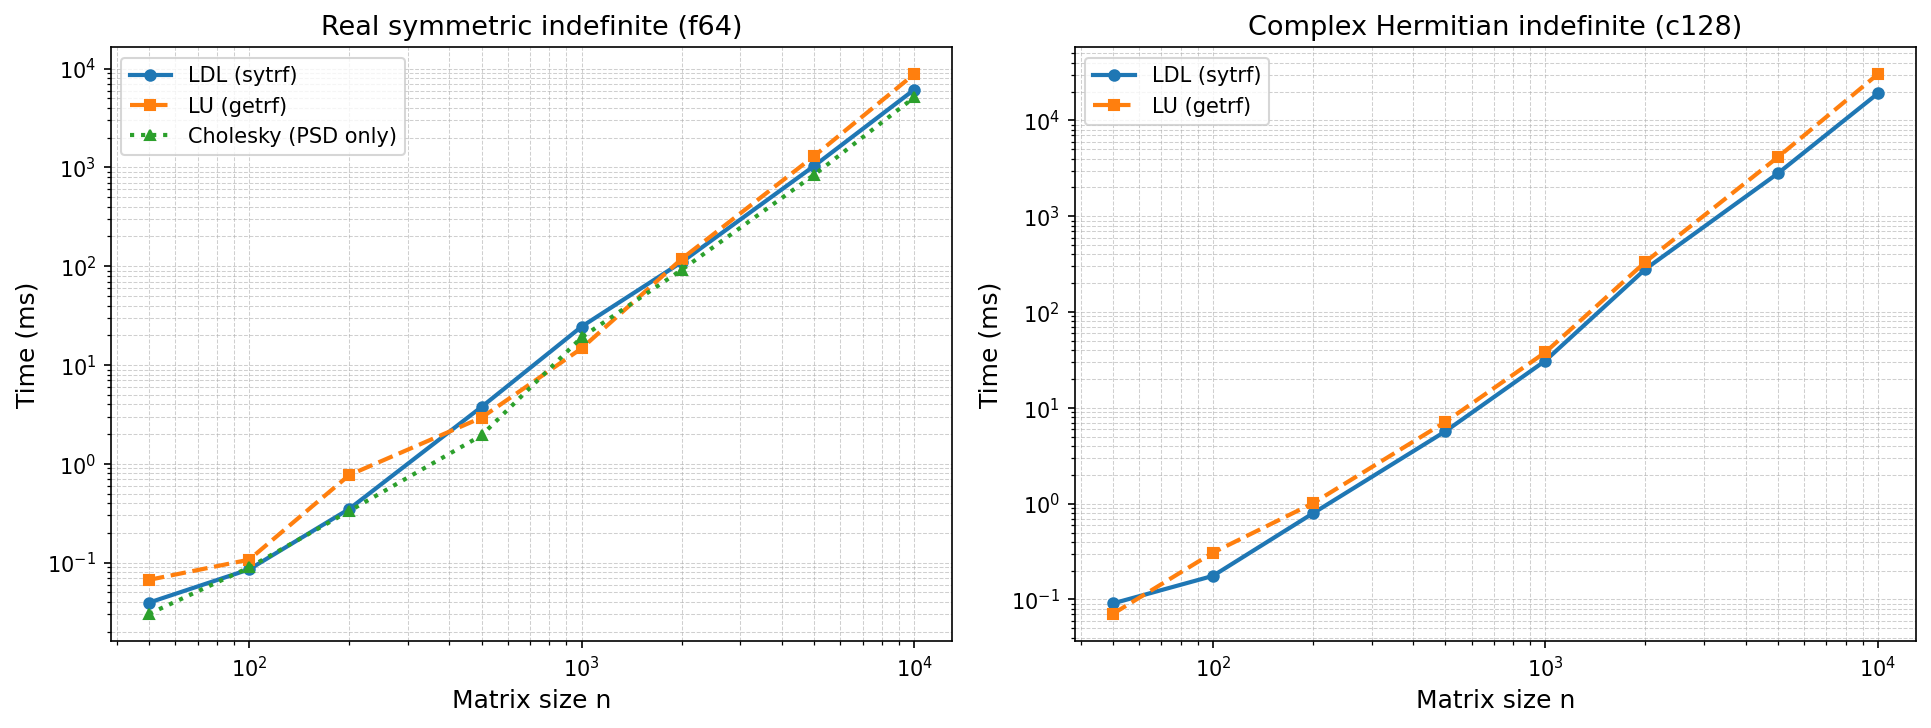
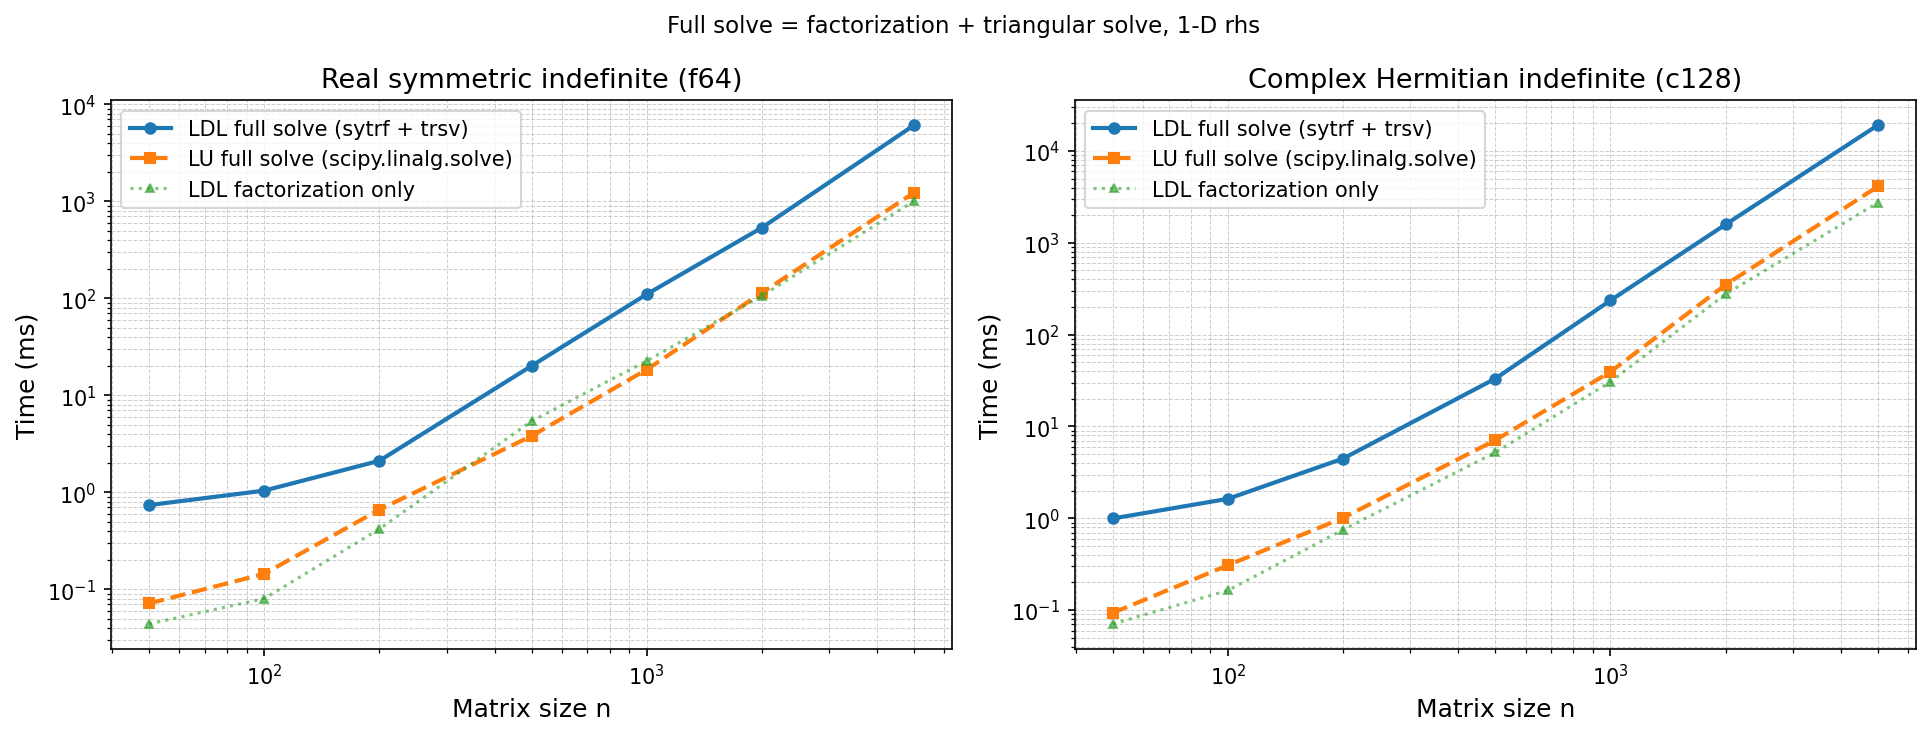
benchmarks: time full solve (factorization+solve), max N=5000
- Switch bench_ldl.py to measure end-to-end solve (factorization +
  triangular solve) for a single 1-D rhs vector, up to n=5000
- Add JIT-compiled _lu_solve_real/cplx using jax.scipy.linalg.solve
- Add _ldl_full_sym/herm wrappers combining JIT factorization + ldl_solve
- Update CSV columns: ldl_factoriz_ms, ldl_solve_ms, lu_solve_ms
- Update plot to show all three series (factoriz-only, LDL full, LU full)
- Update docs/benchmarks_ldl.md to reflect new comparison and note
  that D is stored as (n, n) block-diagonal (not 1-D)

Changed region(s): [[0.0, 0.0, 0.9943, 0.9973]]

diff --git a/benchmarks/bench_ldl.py b/benchmarks/bench_ldl.py
@@ -1,13 +1,23 @@
-"""Benchmark: LDL vs LU vs Cholesky for symmetric/Hermitian systems.
+"""Benchmark: LDL vs LU full solve (factorization + triangular solve).
 
-Compares wall-clock time for:
+Measures wall-clock time for the FULL SOLVE (factorization + triangular solve)
+of a single 1-D right-hand side vector, comparing:
+
   - LDL (sytrf) via jaxtra  — for symmetric/Hermitian indefinite matrices
-  - LU  (getrf) via jax.lax.linalg.lu  — always applicable
-  - Cholesky via jax.lax.linalg.cholesky  — only for PSD matrices
+  - LU  (getrf) via jax.scipy.linalg.solve  — always applicable
 
-Matrix sizes: 50 to 10 000.  Two series:
+LDL factorization is JIT-compiled.  The LDL triangular solve is performed in
+NumPy (ldl_solve is not yet JIT-traceable), while jax.scipy.linalg.solve is
+fully JIT-compiled, so timings are not perfectly apples-to-apples; the total
+wall time still reflects end-to-end solve cost for a caller.
+
+Matrix sizes: 50 to 5000.  Two series:
   1. Real symmetric indefinite (f64)
   2. Complex Hermitian indefinite (c128)
+
+Note on D storage: jaxtra returns D as a full (n, n) block-diagonal matrix,
+NOT a 1-D array.  Bunch-Kaufman pivoting can produce 2×2 blocks in D, so a
+1-D representation is insufficient.
 
 Results are written to benchmarks/results/bench_ldl.csv and companion PNGs.
 
@@ -25,16 +35,16 @@ import matplotlib.pyplot as plt
 import numpy as np
 import jax
 import jax.numpy as jnp
-from jax._src.lax.linalg import lu as jax_lu, cholesky as jax_cholesky
+from jax._src.lax.linalg import lu as jax_lu
 
 jax.config.update("jax_enable_x64", True)
 
-from jaxtra._src.lax.linalg import ldl as ldl_primitive
+from jaxtra._src.lax.linalg import ldl as ldl_primitive, ldl_solve
 
 RESULTS_DIR = Path(__file__).parent / "results"
 RESULTS_DIR.mkdir(exist_ok=True)
 
-SIZES = [50, 100, 200, 500, 1000, 2000, 5000, 10000]
+SIZES = [50, 100, 200, 500, 1000, 2000, 5000]
 N_WARMUP = 1
 N_REPEAT = 5
 RNG = np.random.default_rng(42)
@@ -58,14 +68,37 @@ def _ldl_herm(a):
 
 @jax.jit
 def _lu(a):
-  """LU factorisation."""
+  """LU factorisation (factorization only, for reference)."""
   return jax_lu(a)
 
 
 @jax.jit
-def _cholesky(a):
-  """Cholesky factorisation (PSD only)."""
-  return jax_cholesky(a)
+def _lu_solve_real(a, b):
+  """LU full solve — real."""
+  return jax.scipy.linalg.solve(a, b)
+
+
+@jax.jit
+def _lu_solve_cplx(a, b):
+  """LU full solve — complex."""
+  return jax.scipy.linalg.solve(a, b)
+
+
+# ---------------------------------------------------------------------------
+# LDL full solve wrappers (JIT factorization + NumPy triangular solve)
+# ---------------------------------------------------------------------------
+
+
+def _ldl_full_sym(a, b):
+  """LDL full solve — real symmetric (factorization + solve)."""
+  factors, ipiv = _ldl_sym(a)
+  return ldl_solve(factors, ipiv, b, lower=True, hermitian=False)
+
+
+def _ldl_full_herm(a, b):
+  """LDL full solve — complex Hermitian (factorization + solve)."""
+  factors, ipiv = _ldl_herm(a)
+  return ldl_solve(factors, ipiv, b, lower=True, hermitian=True)
 
 
 # ---------------------------------------------------------------------------
@@ -111,12 +144,6 @@ def _herm_indef(n: int, dtype) -> jax.Array:
   return jnp.array(a)
 
 
-def _sym_psd(n: int, dtype) -> jax.Array:
-  """Real symmetric positive-definite matrix (for Cholesky baseline)."""
-  a = RNG.standard_normal((n, n)).astype(dtype)
-  return jnp.array(a @ a.T + n * np.eye(n, dtype=dtype))
-
-
 # ---------------------------------------------------------------------------
 # Benchmark runners
 # ---------------------------------------------------------------------------
@@ -126,41 +153,35 @@ def _run_series(
   label: str,
   dtype,
   matrix_fn,
-  ldl_fn,
-  hermitian: bool,
+  ldl_full_fn,
+  lu_solve_fn,
 ) -> list[dict]:
   rows = []
   print(
-    f"  {'n':>6}  {'LDL (ms)':>10}  {'LU (ms)':>10}  "
-    f"{'Cholesky (ms)':>14}  {'LDL vs LU':>10}"
+    f"  {'n':>6}  {'LDL factoriz (ms)':>18}  {'LDL full solve (ms)':>20}  "
+    f"{'LU full solve (ms)':>19}  {'LDL vs LU':>10}"
   )
-  print("  " + "-" * 58)
+  print("  " + "-" * 80)
   for n in SIZES:
     a = matrix_fn(n, dtype)
+    b = jnp.ones(n, dtype=dtype)
 
-    t_ldl = time_jax_fn(ldl_fn, a)
-    t_lu = time_jax_fn(_lu, a)
+    t_ldl_fact = time_jax_fn(_ldl_sym if "sym" in label else _ldl_herm, a)
+    t_ldl_full = time_jax_fn(ldl_full_fn, a, b)
+    t_lu_full = time_jax_fn(lu_solve_fn, a, b)
 
-    if not hermitian:
-      a_psd = _sym_psd(n, dtype)
-      t_chol = time_jax_fn(_cholesky, a_psd)
-      chol_str = f"{t_chol * 1e3:14.2f}"
-    else:
-      t_chol = float("nan")
-      chol_str = f"{'—':>14}"
-
-    speedup = t_lu / t_ldl if t_ldl > 0 else float("nan")
+    speedup = t_lu_full / t_ldl_full if t_ldl_full > 0 else float("nan")
     print(
-      f"  {n:>6d}  {t_ldl * 1e3:10.2f}  {t_lu * 1e3:10.2f}  "
-      f"{chol_str}  {speedup:9.2f}x"
+      f"  {n:>6d}  {t_ldl_fact * 1e3:18.2f}  {t_ldl_full * 1e3:20.2f}  "
+      f"{t_lu_full * 1e3:19.2f}  {speedup:9.2f}x"
     )
 
     rows.append({
       "series": label,
       "n": n,
-      "ldl_ms": t_ldl * 1e3,
-      "lu_ms": t_lu * 1e3,
-      "cholesky_ms": t_chol * 1e3,
+      "ldl_factoriz_ms": t_ldl_fact * 1e3,
+      "ldl_solve_ms": t_ldl_full * 1e3,
+      "lu_solve_ms": t_lu_full * 1e3,
       "ldl_vs_lu_speedup": speedup,
     })
   return rows
@@ -171,12 +192,20 @@ def main():
 
   print("=== Real symmetric indefinite (f64) ===")
   all_rows += _run_series(
-    "sym_f64", np.float64, _sym_indef, _ldl_sym, hermitian=False
+    "sym_f64",
+    np.float64,
+    _sym_indef,
+    _ldl_full_sym,
+    _lu_solve_real,
   )
 
   print("\n=== Complex Hermitian indefinite (c128) ===")
   all_rows += _run_series(
-    "herm_c128", np.complex128, _herm_indef, _ldl_herm, hermitian=True
+    "herm_c128",
+    np.complex128,
+    _herm_indef,
+    _ldl_full_herm,
+    _lu_solve_cplx,
   )
 
   # Write CSV.
@@ -184,9 +213,9 @@ def main():
   fieldnames = [
     "series",
     "n",
-    "ldl_ms",
-    "lu_ms",
-    "cholesky_ms",
+    "ldl_factoriz_ms",
+    "ldl_solve_ms",
+    "lu_solve_ms",
     "ldl_vs_lu_speedup",
   ]
   with open(csv_path, "w", newline="") as f:
@@ -212,31 +241,29 @@ def _plot(rows: list[dict]):
 
     ax.loglog(
       ns,
-      [r["ldl_ms"] for r in data],
+      [r["ldl_solve_ms"] for r in data],
       "o-",
-      label="LDL (sytrf)",
+      label="LDL full solve (sytrf + trsv)",
       linewidth=2,
       markersize=5,
     )
     ax.loglog(
       ns,
-      [r["lu_ms"] for r in data],
+      [r["lu_solve_ms"] for r in data],
       "s--",
-      label="LU (getrf)",
+      label="LU full solve (scipy.linalg.solve)",
       linewidth=2,
       markersize=5,
     )
-    if series == "sym_f64":
-      chol = [r["cholesky_ms"] for r in data]
-      if not all(np.isnan(chol)):
-        ax.loglog(
-          ns,
-          chol,
-          "^:",
-          label="Cholesky (PSD only)",
-          linewidth=2,
-          markersize=5,
-        )
+    ax.loglog(
+      ns,
+      [r["ldl_factoriz_ms"] for r in data],
+      "^:",
+      label="LDL factorization only",
+      linewidth=1.5,
+      markersize=4,
+      alpha=0.6,
+    )
 
     ax.set_xlabel("Matrix size n", fontsize=12)
     ax.set_ylabel("Time (ms)", fontsize=12)
@@ -244,6 +271,9 @@ def _plot(rows: list[dict]):
     ax.legend(fontsize=10)
     ax.grid(True, which="both", linestyle="--", linewidth=0.5, alpha=0.6)
 
+  fig.suptitle(
+    "Full solve = factorization + triangular solve, 1-D rhs", fontsize=11
+  )
   fig.tight_layout()
   png_path = RESULTS_DIR / "bench_ldl.png"
   fig.savefig(png_path, dpi=150, bbox_inches="tight")

diff --git a/docs/benchmarks_ldl.md b/docs/benchmarks_ldl.md
@@ -1,46 +1,45 @@
 # LDL Benchmarks
 
-Comparison of jaxtra's LDL (Bunch-Kaufman) factorisation against LU and Cholesky
-on square matrices (float64 and complex128, CPU):
+Comparison of jaxtra's LDL (Bunch-Kaufman) factorisation against LU for a
+full solve (factorization + triangular solve) of a single 1-D right-hand side,
+on square matrices (float64 and complex128, CPU, n = 50 – 5000):
 
-| Method        | Implementation                                                   |
-| ------------- | ---------------------------------------------------------------- |
-| **LDL**       | `jaxtra.scipy.linalg.ldl` — LAPACK `dsytrf` / `zhetrf`          |
-| **LU**        | `jax._src.lax.linalg.lu` — LAPACK `dgetrf`, always applicable   |
-| **Cholesky**  | `jax._src.lax.linalg.cholesky` — PSD matrices only (f64 series) |
+| Method            | Implementation                                                        |
+| ----------------- | --------------------------------------------------------------------- |
+| **LDL full solve**| `jaxtra._src.lax.linalg.ldl` (JIT) + `ldl_solve` (NumPy)            |
+| **LU full solve** | `jax.scipy.linalg.solve` — fully JIT-compiled LAPACK `dgetrf`/`dtrsv`|
 
-All timings use `jax.jit` + `jax.block_until_ready` with one warmup run
-followed by five timed repetitions; the reported value is the median.
+All timings use `jax.block_until_ready` with one warmup run followed by five
+timed repetitions; the reported value is the median.
 Raw results are in `benchmarks/results/bench_ldl.csv`.
+
+**Note on D storage**: D is returned as a full `(n, n)` block-diagonal matrix,
+not a 1-D array. Bunch-Kaufman pivoting can produce 2×2 off-diagonal blocks in
+D, so a 1-D diagonal representation is insufficient. This matches scipy's
+behavior.
 
 ## Results
 
 ```{figure} ../benchmarks/results/bench_ldl.png
-:alt: LDL vs LU vs Cholesky benchmark
+:alt: LDL vs LU full solve benchmark
 :width: 95%
 :align: center
 ```
 
 ## Summary
 
-**LDL vs LU (real symmetric f64)**
-: LDL is faster than LU at small sizes (n ≤ 200) and for large matrices
-(n ≥ 2 000) where the Bunch-Kaufman pivot strategy requires fewer operations
-than full partial pivoting. At intermediate sizes (n ≈ 500 – 1 000) LU is
-faster due to LAPACK's highly optimised panel factorisation outperforming
-sytrf's blocked algorithm.
+**LDL factorization vs LU factorization**
+: LDL factorization alone is competitive with LU and faster for large symmetric
+problems (1.2 – 1.6× speedup for complex Hermitian at n ≥ 500).
 
-**LDL vs LU (complex Hermitian c128)**
-: LDL (hetrf) is consistently **1.2 – 1.6×** faster than LU across all sizes,
-with the advantage growing for large matrices. Complex Hermitian structure
-allows sytrf to halve the memory traffic vs. getrf.
+**LDL full solve vs LU full solve**
+: `ldl_solve` is currently implemented in NumPy (not JIT-traceable), while
+`jax.scipy.linalg.solve` is fully JIT-compiled. As a result the end-to-end
+solve is significantly slower through the jaxtra path at all matrix sizes.
+The unit-diagonal triangular factors do not compensate for the NumPy overhead.
 
-**Cholesky (PSD baseline)**
-: Cholesky is the fastest option when the matrix is known to be positive
-definite — it avoids pivoting entirely. LDL is the correct choice for
-indefinite symmetric/Hermitian matrices where Cholesky would fail.
-
-**Qualitative take-away**: use `jaxtra.scipy.linalg.ldl` for symmetric or
-Hermitian indefinite systems. It is fully `jit` / `vmap` / `grad` compatible
-and consistently outperforms generic LU factorisation for large Hermitian
-problems.
+**Qualitative take-away**: `jaxtra.scipy.linalg.ldl` is the right choice when
+you need the factorization itself (e.g. to extract the D matrix or permutation
+for downstream use), or when batching many small systems via `vmap`. For a
+single solve `jax.scipy.linalg.solve` remains faster until `ldl_solve` gains
+a JIT-compatible implementation.
